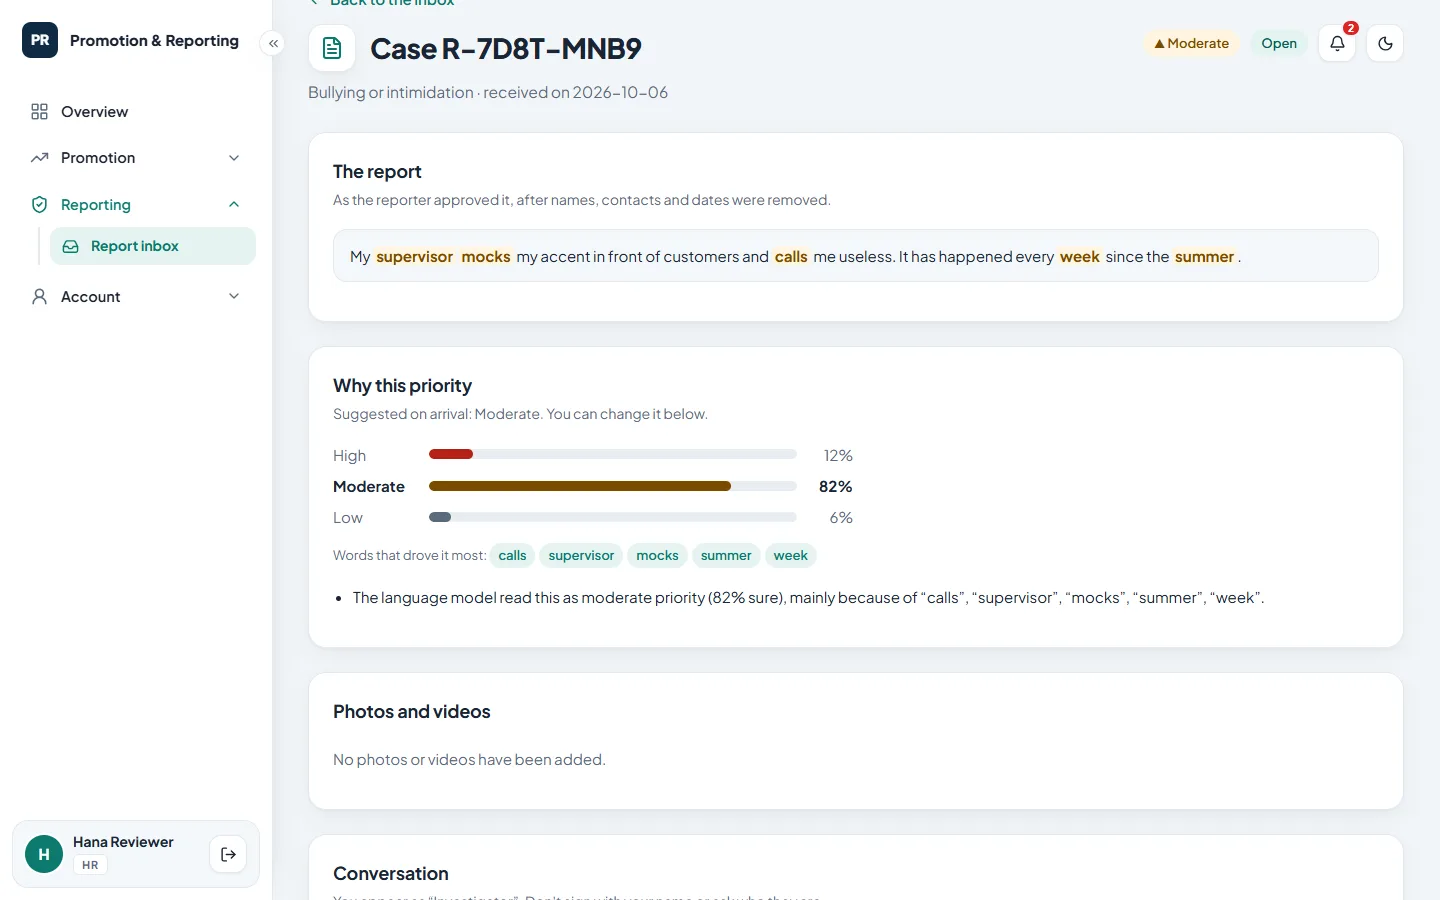
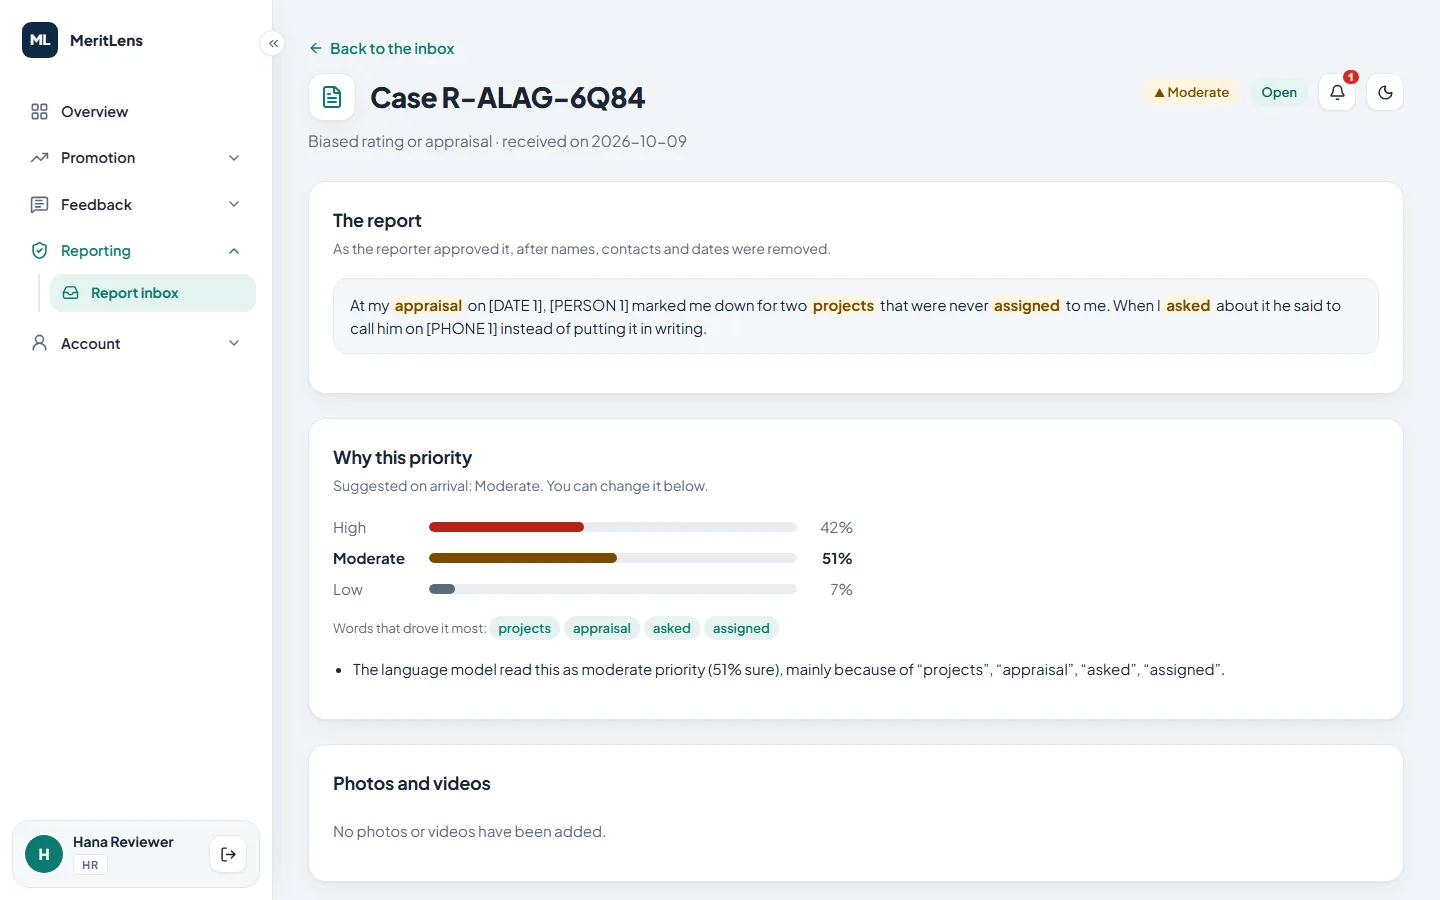
Rework the public landing page around predict, explain, respond
Hero with the one-line promise and two actions (Sign in; Report a concern
anonymously, which goes through sign-in to the report form); How it works in
three steps; six features; the trust section (a complaint never changes a
score, no one can unmask a reporter, people make every decision); the measured
results; and a footer with the project title, plus the university, team and
supervisors once they are filled in (brand.js). No stock images or
testimonials: fresh screenshots of the real app with made-up demo data.

The reporting, roles and privacy pages now describe the feedback channel, the
promotion-focused categories, the auditor, and keys never kept in the browser.

diff --git a/frontend/src/pages/public/Home.jsx b/frontend/src/pages/public/Home.jsx
@@ -1,10 +1,33 @@
-// Home page. Every result comes from the last training and evaluation runs (/api/public/summary). A result that
-// hasn't been measured yet shows as "–", never as an example number.
+// The public landing page: what the platform is (predict → explain → respond), what it offers, the promises it
+// keeps, and its measured results. Every result comes from the last training and evaluation runs
+// (/api/public/summary); a result that hasn't been measured yet shows as "–", never as an example number.
 import { useEffect, useState } from "react";
 import { Link } from "react-router-dom";
-import { ArrowRight } from "lucide-react";
+import { ArrowRight, Gauge, ListChecks, Lock, MessageSquareText, Route, Scale, ScanSearch, ShieldCheck, UserCheck, Users } from "lucide-react";
 import { api } from "../../api";
-import { BRAND, Screenshot } from "./parts";
+import { BRAND, TAGLINE } from "../../brand";
+import { Screenshot } from "./parts";
+
+const STEPS = [
+  { icon: Gauge, title: "Predict", text: "A fairness-checked model estimates how ready each person is for promotion, from their performance and development record only." },
+  { icon: ScanSearch, title: "Explain", text: "Every score comes with the reasons in plain words, and the smallest realistic steps that would reach the threshold." },
+  { icon: MessageSquareText, title: "Respond", text: "Employees rate the explanation, ask HR to correct a wrong record, or report an unfair assessment anonymously." },
+];
+
+const FEATURES = [
+  { icon: ScanSearch, title: "Explainable predictions", text: "Each score splits exactly into what raised it and what lowered it (equal to its SHAP values), with LIME as an independent second opinion." },
+  { icon: Route, title: "Path to promotion", text: "The smallest realistic improvements that would reach the threshold, plus a what-if tool for trying changes. Nothing is saved." },
+  { icon: Scale, title: "Fairness audit", text: "Before a model goes live it must pass the four-fifths rule for gender, age and education. A model that fails is never used." },
+  { icon: MessageSquareText, title: "Employee feedback channel", text: "Rate the explanation, flag factors that seem wrong or unfair, and ask HR to correct your record with evidence." },
+  { icon: Lock, title: "Anonymous reporting", text: "Names, contacts and dates are removed before a report is sent, and the report is never linked to an account." },
+  { icon: UserCheck, title: "People decide", text: "Managers recommend and HR decides; going against the model needs a written reason, and every decision is logged." },
+];
+
+const PROMISES = [
+  { icon: ShieldCheck, title: "A complaint never changes a score", text: "Ratings and reports never reach the model. Only a record correction that HR confirms against evidence can, and it is logged. An automated test checks this." },
+  { icon: Lock, title: "No one can unmask a reporter", text: "There is nowhere to store who sent a report, not even for administrators. Only the day is kept, never the time." },
+  { icon: Users, title: "People make every decision", text: "The model only advises. Every decision records who made it, what the model said and, if they differed, why." },
+];
 
 export default function Home() {
   const [facts, setFacts] = useState(null);
@@ -14,41 +37,68 @@ export default function Home() {
   return (
     <>
       <section className="home-intro">
-        <h1>Promotion decisions you can check, and a safe way to report misconduct.</h1>
+        <p className="eyebrow">{BRAND}</p>
+        <h1>{TAGLINE}</h1>
         <p className="lead">
-          {BRAND} scores how ready each employee is for promotion and shows what moved the score. A manager
-          recommends, HR decides and Finance confirms the pay rise. The same system lets staff report harassment,
-          fraud or unsafe work without their name attached.
+          {BRAND} helps an organisation decide promotions it can explain. It predicts how ready each employee is, shows
+          why in plain words, and gives every employee a way to respond.
         </p>
         <div className="row intro-actions">
-          <Link className="btn btn-accent btn-lg" to="/demo">Book a demo</Link>
-          <Link className="btn btn-plain btn-lg" to="/login">Sign in</Link>
+          <Link className="btn btn-primary btn-lg" to="/login">Sign in</Link>
+          <Link className="btn btn-accent btn-lg" to="/login" state={{ next: "/report" }}>Report a concern anonymously</Link>
         </div>
+        <p className="muted small intro-note">
+          Staff sign in first, so only people in the organisation can report. The report itself is never linked to the
+          account. <Link to="/reporting">How reporting works</Link>
+        </p>
       </section>
 
-      <Screenshot wide src="/landing/readiness.webp" alt="An employee's readiness page, listing the factors that raised and lowered the score">
-        An employee's readiness page. Each factor shows its real value and how far it moved the score.
+      <section aria-labelledby="how-it-works" className="home-section">
+        <h2 id="how-it-works">How it works</h2>
+        <ol className="how-steps">
+          {STEPS.map(({ icon: Icon, title, text }, i) => (
+            <li key={title}>
+              <span className="how-icon"><Icon size={22} aria-hidden="true" /></span>
+              <h3><span className="how-number">{i + 1}.</span> {title}</h3>
+              <p>{text}</p>
+            </li>
+          ))}
+        </ol>
+      </section>
+
+      <Screenshot wide src="/landing/growth.webp" alt="An employee's My growth page: the readiness score, the factors that raised and lowered it, and the panel to respond">
+        An employee's own page: the score, and exactly what raised and lowered it compared with an average employee.
       </Screenshot>
 
-      <section className="two-col">
-        <article>
-          <h2>Promotion readiness</h2>
-          <p>
-            The model looks at {trained ? `${facts.inputs} ` : ""}performance and development measures. It never sees
-            gender, age, education, department or pay.
-            Anyone looking at a score can open it and see the factors behind it, plus a few realistic things the person
-            could work on.
-          </p>
-          <Link className="text-link" to="/promotion">How a decision is made <ArrowRight size={16} aria-hidden="true" /></Link>
-        </article>
-        <article>
-          <h2>Anonymous reporting</h2>
-          <p>
-            Names, phone numbers and dates are taken out of a report before it is sent, and the reporter checks what's
-            left. They follow up with a case ID and a key. HR never finds out who they are.
-          </p>
-          <Link className="text-link" to="/reporting">How reporting works <ArrowRight size={16} aria-hidden="true" /></Link>
-        </article>
+      <section aria-labelledby="features" className="home-section">
+        <h2 id="features">What it does</h2>
+        <ul className="feature-grid">
+          {FEATURES.map(({ icon: Icon, title, text }) => (
+            <li key={title}>
+              <Icon size={20} aria-hidden="true" className="feature-icon" />
+              <h3>{title}</h3>
+              <p>{text}</p>
+            </li>
+          ))}
+        </ul>
+      </section>
+
+      <Screenshot src="/landing/respond.webp" alt="The Respond to this explanation panel, with tabs to rate the explanation, correct the record or report anonymously, and two 1 to 5 scales">
+        Further down: the smallest realistic steps to the threshold, then the panel to respond: rate the explanation, ask HR to correct a value, or report anonymously.
+      </Screenshot>
+
+      <section aria-labelledby="promises" className="home-section trust">
+        <h2 id="promises">What we promise</h2>
+        <ul className="promise-grid">
+          {PROMISES.map(({ icon: Icon, title, text }) => (
+            <li key={title}>
+              <Icon size={22} aria-hidden="true" className="feature-icon" />
+              <h3>{title}</h3>
+              <p>{text}</p>
+            </li>
+          ))}
+        </ul>
+        <p className="small"><Link className="text-link" to="/privacy">What we store, and what we don't <ArrowRight size={16} aria-hidden="true" /></Link></p>
       </section>
 
       <section className="results-section">
@@ -56,7 +106,7 @@ export default function Home() {
         <p className="muted">Measured on synthetic (made-up) employee data and 50 hand-labelled test reports.</p>
         <dl className="results">
           <div><dt>{trained ? facts.roc_auc.toFixed(2) : "–"}</dt>
-            <dd>ROC-AUC for the promotion model on {trained ? `${facts.test_size.toLocaleString()} employees` : "employees"} it hadn't seen during training.</dd></div>
+            <dd>ROC-AUC for the promotion model on {trained ? `${facts.test_size.toLocaleString()} employees` : "employees"} it hadn't seen during training, using {trained ? `${facts.inputs} ` : ""}performance and development measures only.</dd></div>
           <div><dt>{trained ? `${Math.round(facts.lowest_fairness_ratio * 100)}%` : "–"}</dt>
             <dd>Lowest selection ratio between groups (gender, age, education). The four-fifths rule asks for at least 80%.</dd></div>
           <div><dt>{facts?.anonymiser_recall != null ? `${Math.round(facts.anonymiser_recall * 100)}%` : "–"}</dt>
@@ -64,6 +114,7 @@ export default function Home() {
           <div><dt>{facts?.urgent_total ? `${facts.urgent_caught} of ${facts.urgent_total}` : "–"}</dt>
             <dd>Urgent test reports given high priority. The trade-off: some less urgent ones were rated too high.</dd></div>
         </dl>
+        <p className="muted small"><ListChecks size={14} aria-hidden="true" style={{ verticalAlign: "-2px" }} /> The model never sees gender, age, education, department or pay.</p>
       </section>
 
       <p className="closing">

diff --git a/frontend/src/pages/public/public.css b/frontend/src/pages/public/public.css
@@ -99,3 +99,33 @@ html { scroll-behavior: smooth; }
 .demo-done p { color: var(--muted); max-width: 380px; margin: 0 0 14px; }
 .hp { position: absolute; left: -10000px; width: 1px; height: 1px; overflow: hidden; }
 @media (max-width: 900px) { .demo-page { grid-template-columns: 1fr; gap: 24px; } }
+
+/* Landing page: predict → explain → respond */
+.eyebrow { font-weight: 800; letter-spacing: 0.08em; text-transform: uppercase; font-size: 13px; color: var(--primary); margin: 0 0 10px; }
+.intro-note { margin-top: 14px; max-width: 640px; }
+.home-section { margin: 56px 0; }
+.home-section > h2 { font-size: 26px; margin-bottom: 20px; }
+.how-steps { list-style: none; margin: 0; padding: 0; display: grid; grid-template-columns: repeat(3, minmax(0, 1fr)); gap: 24px; }
+.how-steps li { border: 1px solid var(--border); border-radius: 14px; padding: 22px; background: var(--surface); position: relative; }
+.how-steps li:not(:last-child)::after { content: "→" / ""; position: absolute; right: -18px; top: 30px; color: var(--muted); font-weight: 700; }
+.how-steps p, .feature-grid p, .promise-grid p { color: var(--muted); margin: 0; font-size: 15px; }
+.how-icon { display: inline-grid; place-items: center; width: 44px; height: 44px; border-radius: 12px; background: var(--surface-2); color: var(--primary); margin-bottom: 12px; }
+.how-number { color: var(--muted); }
+.feature-grid, .promise-grid { list-style: none; margin: 0; padding: 0; display: grid; gap: 28px 32px; }
+.feature-grid { grid-template-columns: repeat(3, minmax(0, 1fr)); }
+.promise-grid { grid-template-columns: repeat(3, minmax(0, 1fr)); }
+.feature-icon { color: var(--primary); margin-bottom: 8px; }
+.trust { border-top: 1px solid var(--border); padding-top: 40px; }
+@media (max-width: 860px) {
+  .how-steps, .feature-grid, .promise-grid { grid-template-columns: 1fr; }
+  .how-steps li:not(:last-child)::after { content: "↓" / ""; right: 22px; top: auto; bottom: -22px; }
+}
+@media (min-width: 561px) and (max-width: 860px) { .feature-grid { grid-template-columns: 1fr 1fr; } }
+
+/* Footer: the project behind it */
+.footer-project { max-width: 1080px; margin: 18px auto 0; padding: 0 24px; }
+.footer-title { font-weight: 700; font-size: 14px; margin: 0 0 6px; max-width: 760px; }
+.footer-credits { display: flex; flex-wrap: wrap; gap: 6px 28px; margin: 0; font-size: 14px; }
+.footer-credits dt { display: inline; color: var(--muted); }
+.footer-credits dt::after { content: ": "; }
+.footer-credits dd { display: inline; margin: 0; }

diff --git a/frontend/src/pages/public/ReportingPage.jsx b/frontend/src/pages/public/ReportingPage.jsx
@@ -5,8 +5,9 @@ export default function ReportingPage() {
   return (
     <>
       <PageIntro title="Reporting a concern without giving your name">
-        Staff sign in, so only people in the organisation can report. The report itself is never linked to their
-        account.
+        Reporting is part of the employee feedback channel: if an assessment seems unfair, an employee can say so
+        without being identified. Staff sign in, so only people in the organisation can report. The report itself
+        is never linked to their account.
       </PageIntro>
 
       <Screenshot src="/landing/report.webp" alt="The report form's check step, with a name, a date and a phone number replaced by tags">
@@ -16,8 +17,9 @@ export default function ReportingPage() {
       <section className="prose">
         <h2>After it's sent</h2>
         <p>
-          The reporter gets a case ID and a secret key, shown once. With those they can read HR's replies and answer
-          them. The key itself is never stored, and five wrong tries lock the case for 15 minutes.
+          The reporter gets a case ID and a secret key, shown once, to keep in a downloaded receipt or a password
+          manager. With those they can read HR's replies and answer them. The website never keeps the key, the server
+          stores only a hash of it, and five wrong tries lock the case for 15 minutes.
         </p>
         <p>
           They can attach photos or videos. Location, phone model, owner name and the time taken are stripped from
@@ -25,8 +27,10 @@ export default function ReportingPage() {
           for faces, reflections and their own voice.
         </p>
         <p>
-          Reports can be about anything from harassment and bullying to safety hazards, fraud or data breaches. There
-          are 19 categories.
+          A report can be about a biased rating or appraisal, favouritism, discrimination, a wrong or missing record, or
+          any other workplace concern. When HR closes a case finding a rating unfair, they can re-appraise the value
+          concerned. That correction is never linked to the report, and the report itself never reaches the
+          promotion model.
         </p>
       </section>
 

diff --git a/frontend/src/pages/public/Privacy.jsx b/frontend/src/pages/public/Privacy.jsx
@@ -4,10 +4,12 @@ import { PageIntro } from "./parts";
 const RULES = [
   ["Reports have no account column", "There is nowhere to record who sent a report, so it can't be looked up later, even by an administrator."],
   ["Only the day is kept", "Reports, messages and the activity log store dates, not times, and the server keeps no log of requests."],
-  ["The reporter's key isn't stored", "Only a hash of it is saved. If the reporter loses the key, nobody can open the case for them."],
+  ["The reporter's key isn't stored", "Only a hash of it is saved, and the website never keeps it in the browser. If the reporter loses the key, nobody can open the case for them."],
   ["Photos and videos are cleaned", "GPS position, device, owner name and the time taken are removed before a file is saved."],
-  ["No protected characteristics in the model", "Gender, age, education and pay are not inputs. Gender, age and education are used only afterwards, to check the model treats groups fairly."],
-  ["Reports and promotions are kept apart", "The promotion model never reads report data, and pay is stored only as a percentage."],
+  ["No protected characteristics in the model", "Gender, age, education, department and pay are not inputs. Gender, age and education are used only afterwards, to check the model treats groups fairly."],
+  ["Feedback never changes a score", "The promotion model never reads ratings, correction requests or reports. Only a correction HR confirms against evidence changes a record, and every such change is logged."],
+  ["Ratings are seen only as totals", "HR and the auditor see how explanations were rated added together, and only from five ratings. Managers never see them."],
+  ["Pay is a percentage", "Pay rises are stored only as percentages, never salaries, and never reach the model."],
 ];
 
 export default function Privacy() {

diff --git a/frontend/src/pages/public/Approach.jsx b/frontend/src/pages/public/Approach.jsx
@@ -2,18 +2,19 @@
 import { PageIntro } from "./parts";
 
 const ROLES = [
-  ["Employee", "Their own readiness score and what's behind it", "Try what-if changes, report a concern, follow up on it"],
+  ["Employee", "Their own readiness score and what's behind it", "Try what-if changes; rate the explanation, ask HR to correct their record, or report a concern anonymously"],
   ["Manager", "Their team's scores", "Recommend someone, with ratings, examples and a proposed pay rise"],
-  ["HR", "All employees, recommendations, the decision log and the report inbox", "Decide on promotions, set the pay range, handle reports"],
+  ["HR", "All employees, recommendations, the decision log, record corrections, the feedback dashboard and the report inbox", "Decide on promotions, confirm or reject record corrections, set the pay range, handle reports"],
   ["Finance", "Approved pay rises and the pay range", "Confirm a pay rise or send it back to HR"],
-  ["Admin", "Accounts and the activity log", "Create accounts and set managers' teams"],
+  ["Admin", "Accounts, the activity log and the system's health", "Create accounts and set managers' teams"],
+  ["Compliance auditor", "The decision log, the model and its fairness, and the feedback dashboard (totals only)", "Check decisions; read-only, never sees reports"],
 ];
 
 export default function Approach() {
   return (
     <>
       <PageIntro title="Who uses it">
-        Five roles, each seeing only what it needs. A manager can't see other teams, Finance doesn't see scores, and
+        Six roles, each seeing only what it needs. A manager can't see other teams, Finance doesn't see scores, and
         nobody can see who sent a report.
       </PageIntro>
 

diff --git a/frontend/src/pages/public/PublicLayout.jsx b/frontend/src/pages/public/PublicLayout.jsx
@@ -4,6 +4,7 @@ import { Link, NavLink, Outlet, useLocation } from "react-router-dom";
 import { Menu, X } from "lucide-react";
 import { BrandMark, ThemeToggle } from "../../components/ui";
 import { BRAND, PAGES } from "./parts";
+import { PROJECT } from "../../brand";
 import "./public.css";
 
 export default function PublicLayout() {
@@ -62,6 +63,15 @@ export default function PublicLayout() {
             <Link to="/demo">Book a demo</Link>
             <Link to="/login">Sign in</Link>
           </nav>
+        </div>
+        <div className="footer-project">
+          <p className="footer-title">{PROJECT.title}</p>
+          {/* Only the details that have been filled in (brand.js) are shown */}
+          <dl className="footer-credits">
+            {PROJECT.university && <div><dt>University</dt><dd>{PROJECT.university}</dd></div>}
+            {PROJECT.team.length > 0 && <div><dt>Team</dt><dd>{PROJECT.team.join(", ")}</dd></div>}
+            {PROJECT.supervisors.length > 0 && <div><dt>Supervised by</dt><dd>{PROJECT.supervisors.join(", ")}</dd></div>}
+          </dl>
         </div>
         <p className="footer-note">A final-year project. Demonstrated on synthetic employee data; screenshots use made-up names.</p>
       </footer>

diff --git a/frontend/src/brand.js b/frontend/src/brand.js
@@ -2,6 +2,18 @@
 // (Emails use APP_NAME in backend/app/core/config.py.)
 export const BRAND = "MeritLens";
 
+// The one-line promise on the landing page
+export const TAGLINE = "Fair, explainable promotion decisions, with a voice for every employee.";
+
+// The project behind it, for the website's footer. Fill in what applies: anything left empty is simply not shown.
+export const PROJECT = {
+  title: "Design and Development of an Explainable Machine Learning-Based Decision Support System for Employee "
+    + "Promotion Prediction with an Employee Feedback Channel",
+  university: "",
+  team: [],        // e.g. ["Ada Lovelace", "Alan Turing"]
+  supervisors: [], // e.g. ["Dr Grace Hopper"]
+};
+
 // Shown in the small square mark: the capital letters of the name ("ML"), or the first letters of its first two
 // words for a name written as several words
 const capitals = BRAND.replace(/[^A-Z]/g, "");
